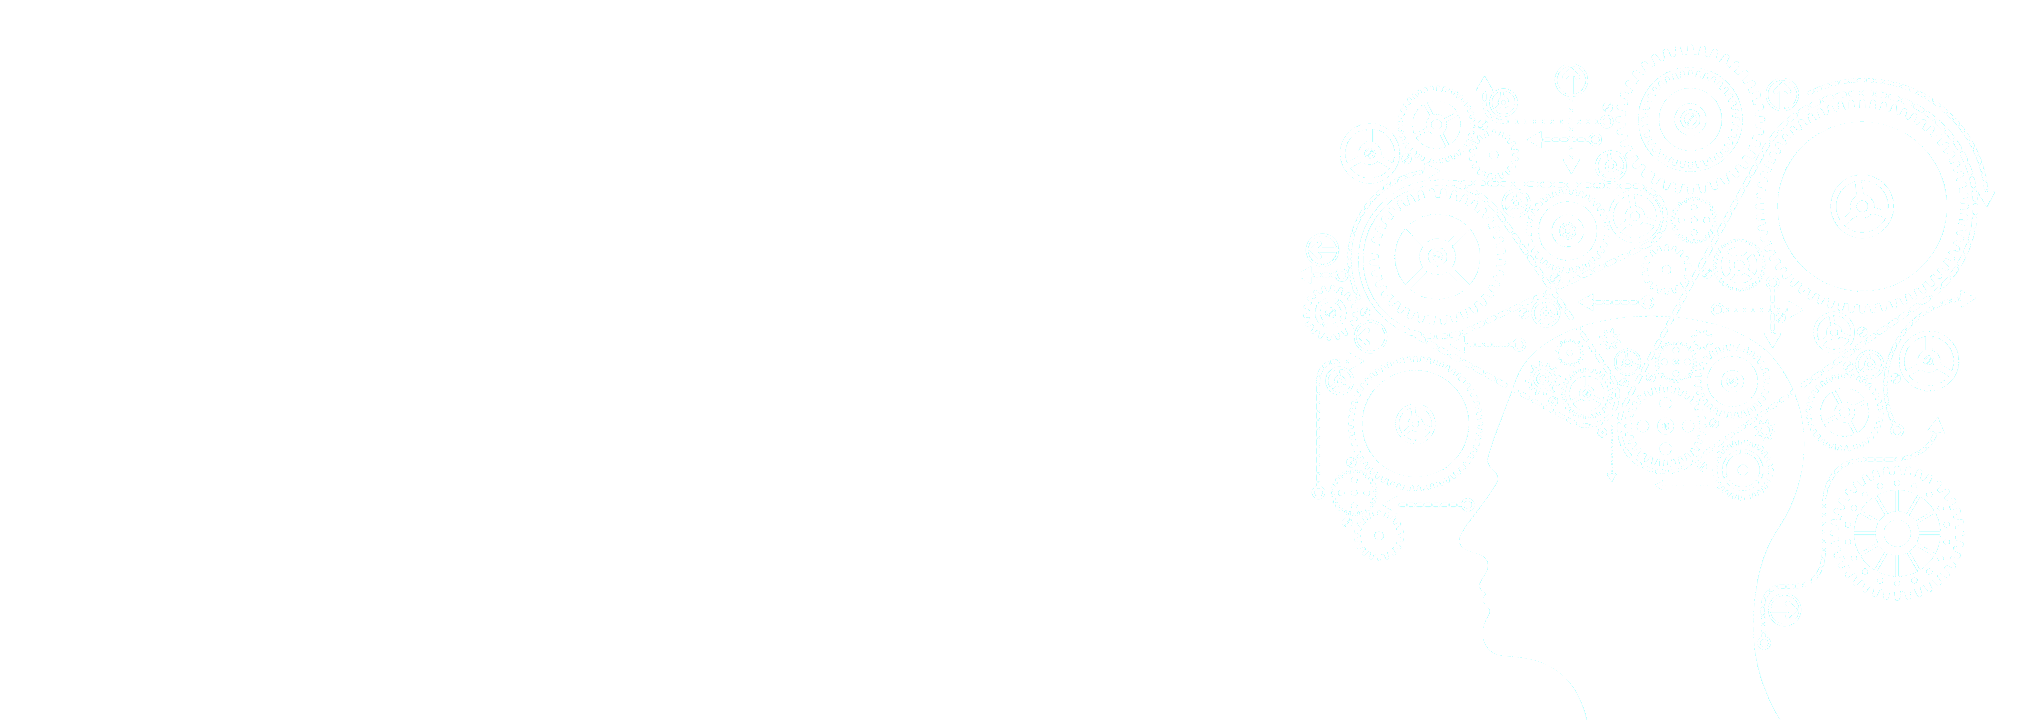
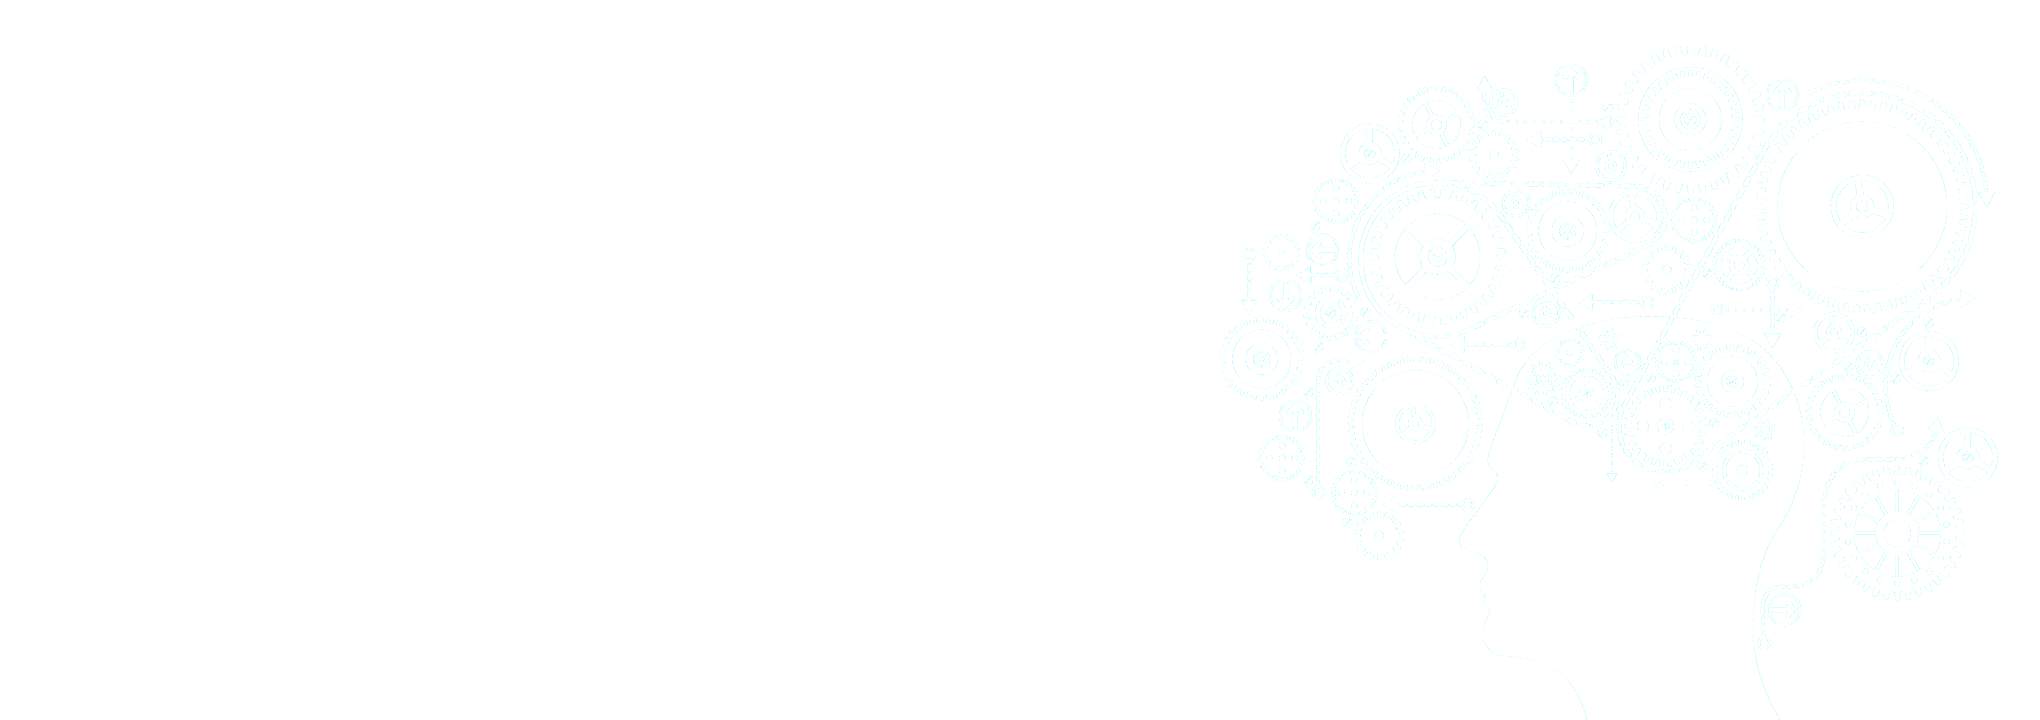
Commit of random changes

diff --git a/css/style.css b/css/style.css
@@ -61,7 +61,7 @@ a.download { font-weight:bold; text-decoration:none; }
 
 header { padding-top:3em; padding-bottom:2em; }
 
-#logo { width:225px; height:50px; position:relative; top:-18px; left:8px; }
+#logo { width:225px; height:50px; position:relative; top:-16px; left:8px; }
 
 .navbar-header { z-index:100; position:relative; }
 
@@ -96,8 +96,8 @@ header { padding-top:3em; padding-bottom:2em; }
 /* --- */
 
 section.blue { padding:20px 0; min-height:360px; background:#25aae1; color:#fff; }
-	section.blue.airplane { background:#25aae1 url(../img/bg-airplane.png?v=3) center bottom no-repeat; }
-	section.blue.thinker { background:#25aae1 url(../img/bg-thinker.png?v=3) center bottom no-repeat; }
+	section.blue.airplane { background:#25aae1 url(../img/bg-airplane.png?v=4) center bottom no-repeat; }
+	section.blue.thinker { background:#25aae1 url(../img/bg-thinker.png?v=4) center bottom no-repeat; }
 	section.blue h1, section.blue h2, section.blue h3, section.blue h4, section.blue h5, section.blue h6 { color:#fff; }
 	section.blue p { color:#def; } 
 
@@ -110,7 +110,7 @@ section.ribbon { text-align:center; margin-top:0.5em; }
 
 div.portal .glyphicon { float:right; margin-right:15px; color:#25aae1; }
 
-.bg-pad { padding-bottom:40px; }
+.bg-pad { /* padding-bottom:40px; */ }
 
 .continue { text-align:right; margin:1em 0 1em 0; }
 
@@ -128,9 +128,14 @@ div.portal .glyphicon { float:right; margin-right:15px; color:#25aae1; }
 .code .links { padding-top:5em; }
 
 .code-sample-header { position:relative; left:-16px; background-color:#25aae1; border:1px solid #258ac1; border-top:5px solid #258ac1; padding:5px 15px; color:#fff; border-top-right-radius:3px; border-top-left-radius:3px; }
-.code-sample { position:relative; left:-16px; border:1px solid #bbb; border-top:none; padding:15px; overflow-x:scroll; word-wrap:normal; border-bottom-right-radius:3px; border-bottom-left-radius:3px; }
-	.code-sample pre { border:none !important; background:transparent !important; margin:0; padding:0; }
+.code-sample { position:relative; left:-16px; border:1px solid #bbb; border-top:none; padding:15px; word-wrap:normal; border-bottom-right-radius:3px; border-bottom-left-radius:3px; }
+	.code-sample pre { border:none !important; background:transparent !important; overflow-x:scroll; margin:0; padding:0; }
 
+@media (max-width:768px) {
+	section.blue { min-height:0; }
+		section.blue.airplane { background-image:none; }
+		section.blue.thinker { background-image:none; }
+}
 
 /* --- */
 

diff --git a/includes/site-nav.php b/includes/site-nav.php
@@ -1,5 +1,5 @@
 <div class="site-nav">
   <ul>
-    <li<?php if($site == 'ozark') echo " class='active'"; ?>><a href="/">Ozark</a></li><!--<li<?php if($site == 'ozark-ide') echo " class='active'"; ?>><a href="/">Ozark IDE</a></li><li<?php if($site == 'company') echo " class='active'"; ?>><a href="/">Company</a></li>--> | <li><a target="_blank" href="http://eepurl.com/56iVb">Newsletter &nbsp;<span class='glyphicon glyphicon-new-window'></span></a></li>
+    <li<?php if($site == 'ozark') echo " class='active'"; ?>><a href="/">Ozark</a></li><li<?php if($site == 'ozark-ide') echo " class='active'"; ?>><a href="/">Ozark IDE</a></li><li<?php if($site == 'company') echo " class='active'"; ?>><a href="/">Company</a></li> | <li><a target="_blank" href="http://eepurl.com/56iVb">Newsletter &nbsp;<span class='glyphicon glyphicon-new-window'></span></a></li>
   </ul>
 </div>

diff --git a/index.php b/index.php
@@ -24,7 +24,7 @@
         <div class='row'>
           <div class='col-md-10 col-md-offset-1'>
             <div class='row'>
-              <div class='col-md-7 col-sm-8 col-xs-9'>
+              <div class='col-sm-7'>
                 <h1 class='heading'>Ozark is an elegant, open-source programming language. Through strict code standards, Ozark enables new tools for generating software.</h1>
               </div>
             </div>
